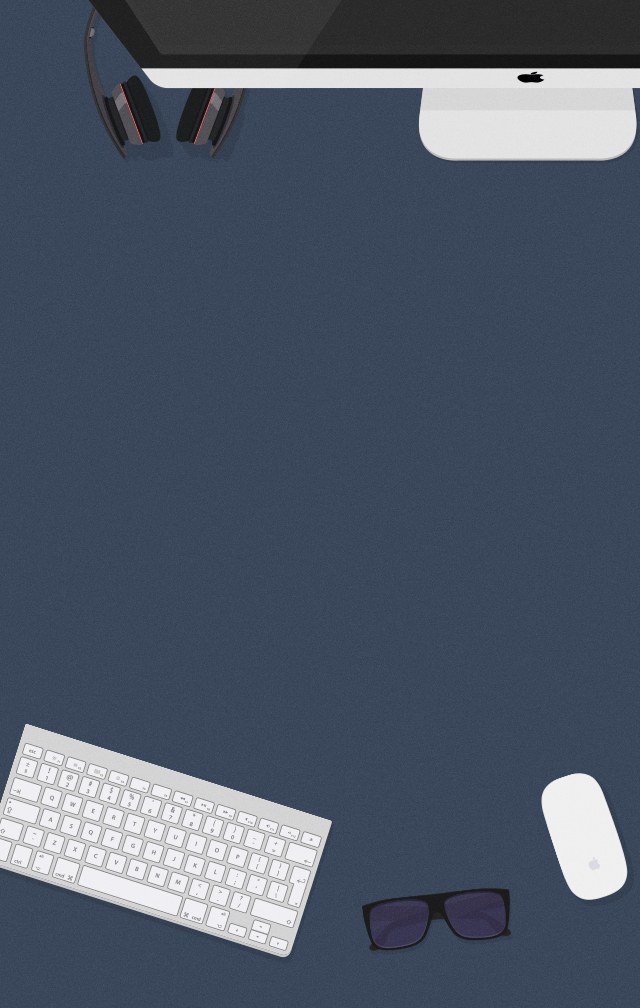
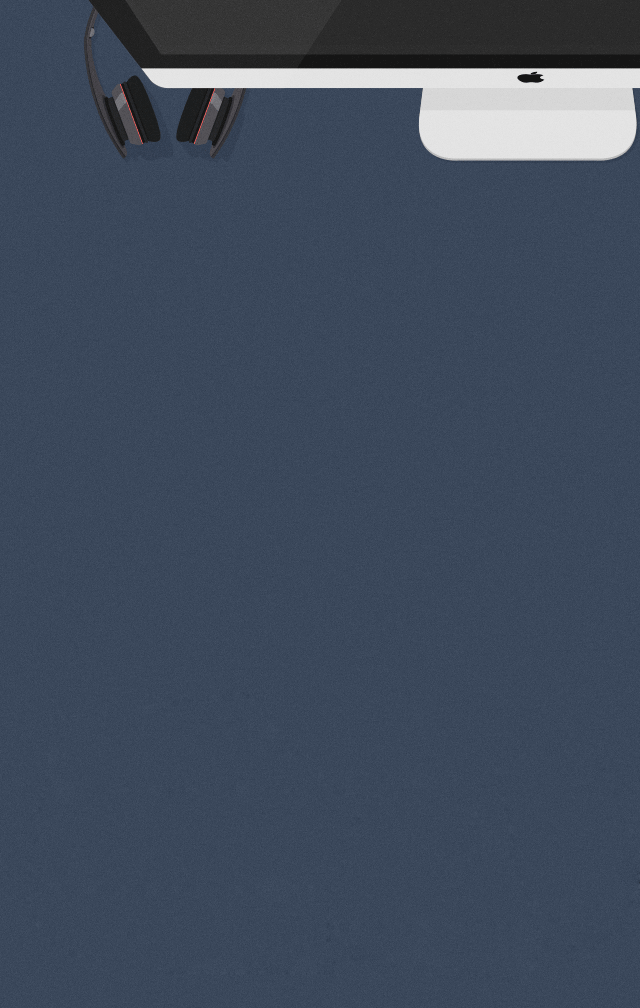
下滑提示箭头 动效、背景修改

Changed region(s): [[0.0, 0.7073, 0.5312, 0.9534], [0.8438, 0.7688, 1.0, 0.8919], [0.5625, 0.8611, 0.8125, 0.9534]]

diff --git a/hr/index.html b/hr/index.html
@@ -18,20 +18,21 @@
   <div class="slides">
     <section>
 
-      <section data-background="img/computer.png" style="margin-top:100px;">
+      <section data-background="img/computer.png" style="margin-top:120px;">
         <img src="img/genee.png" width="50%">
         <h1>基理科技</h1>
-        <h3>做<span style="color:#cae8ff; margin:0 3px;">最好</span>的自己 寻找有梦人</h3>
+        <h3>做<span style="color:#cae8ff; margin:0 1px;">最好</span>的自己 寻找有梦人</h3>
+        <img src="img/down.png" style="margin:140px 142px 0;" width="36px" >     
       </section>
 
-      <section data-background="img/coffee.png">
-        <h2>我们有<span style="color:#fff; margin:0 5px;">最好</span>的平台</h2>
+      <section data-background="img/keyboard.png">
+        <h2>我们有<span style="color:#fff; margin:0 3px;">最好</span>的平台</h2>
         <img src="img/Tower.png" width="24%">
         <p style="line-height:1.8em; margin:0;">起源于美国波士顿<br />国内领先的科研信息化管理服务商<br />我们正在用智慧物联网装备科研实验室<br />全国70%的重点高校是我们的忠实用户</p>
       </section>   
     
-      <section data-background="img/phone.png">
-        <h2 style="margin-bottom:1em">追求<span style="color:#fff; margin:0 5px;">最好</span>的产品</h2>
+      <section data-background="img/keyboard.png">
+        <h2 style="margin-bottom:1em">追求<span style="color:#fff; margin:0 3px;">最好</span>的产品</h2>
         <div>
           <img src="img/lims.png" width="54px" style="float:left; margin-top:-3px">
           <div style="margin-left:80px">
@@ -74,7 +75,7 @@
           <p style="text-align:left; margin-top:10px">拥有自主研发的开源框架</p>
       </section>
     
-      <section data-background="img/camera.png">
+      <section data-background="img/coffee.png">
         <h2 style="margin-bottom:1em">我们在寻找“牛人”</h2>
         <ul class="value">
           <li><h3>Curious</h3> 强烈的求知欲望</li>
@@ -229,10 +230,10 @@ Reveal.initialize({
   minScale: 0.2,
   maxScale: 1.0,
 
-  transition: 'slide', // none/fade/slide/convex/concave/zoom
+  transition: 'convex', // none/fade/slide/convex/concave/zoom
   // transitionSpeed: 'fast',
     
-  backgroundTransition: 'convex',
+  backgroundTransition: 'slide',
     
   // Optional reveal.js plugins
   dependencies: [
